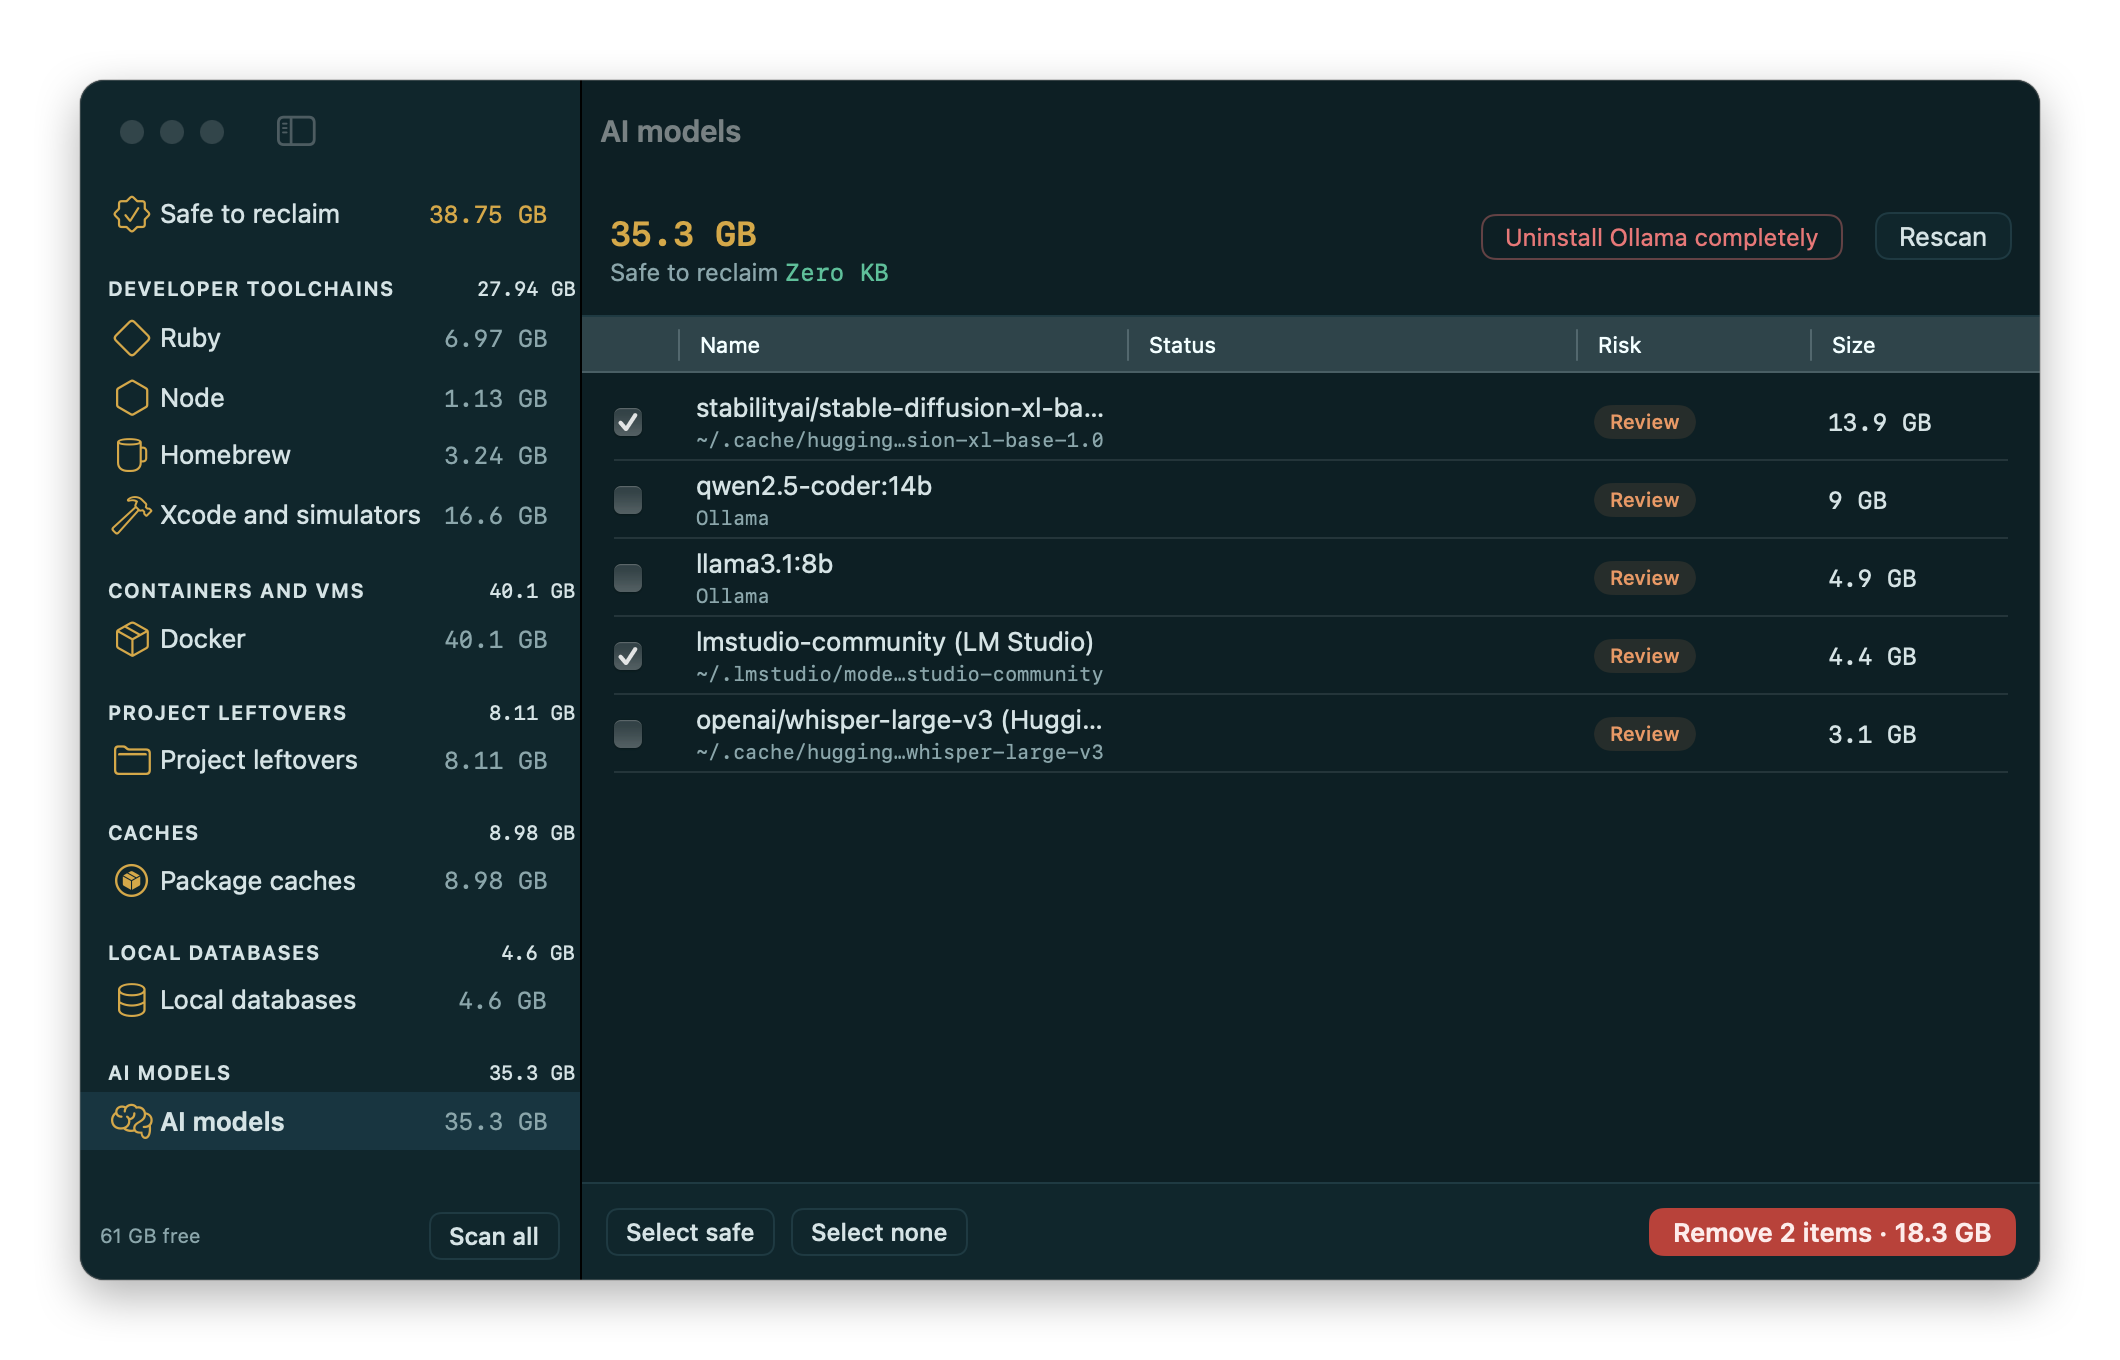
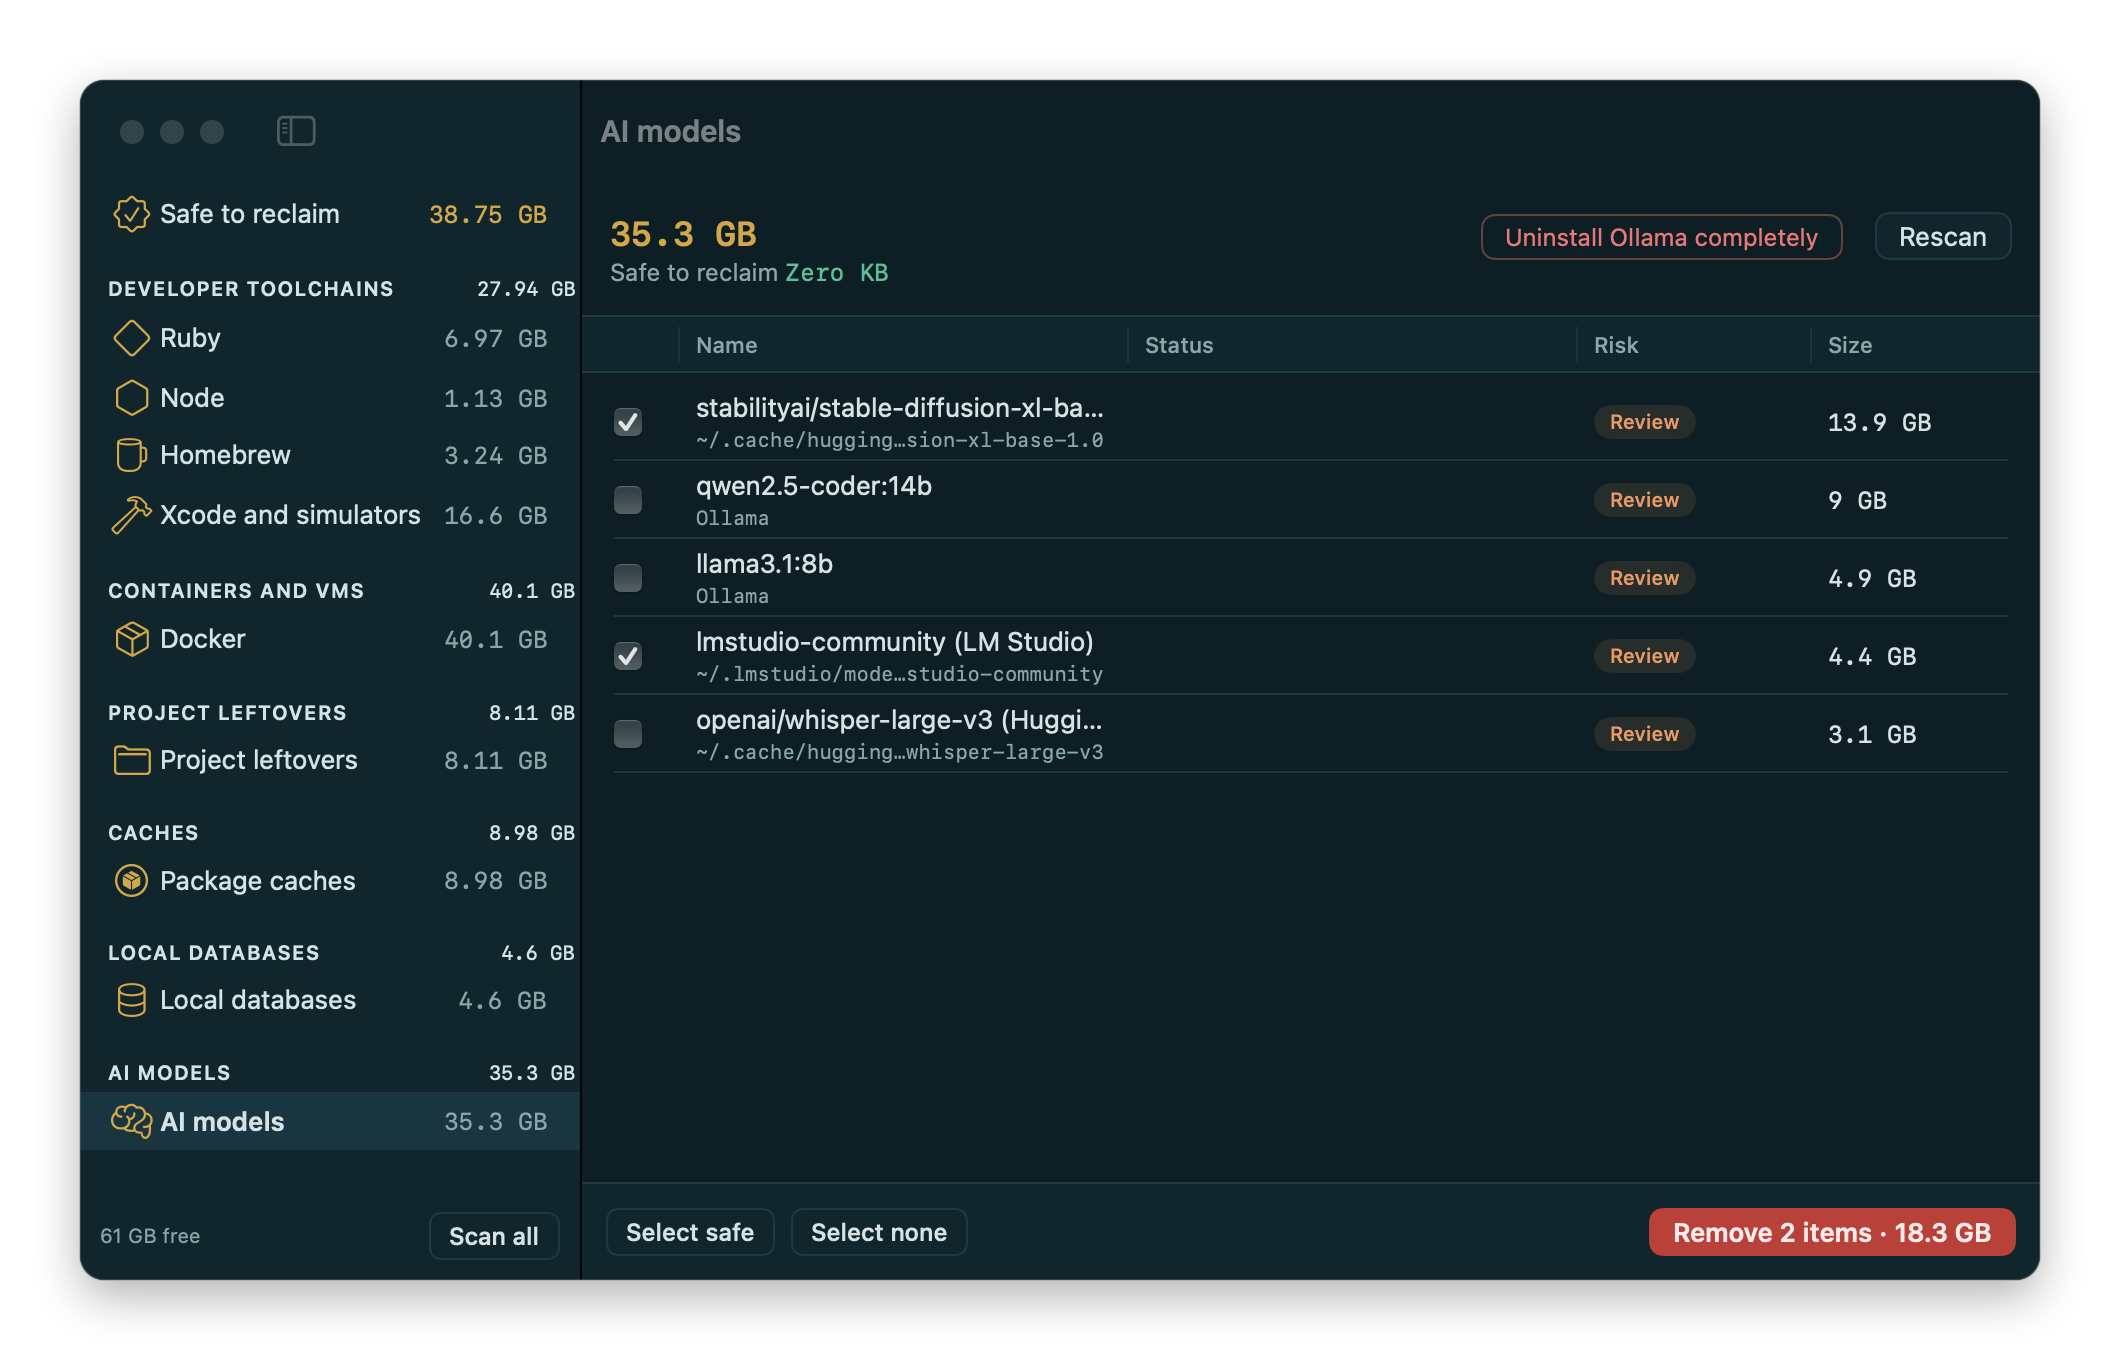
Theme table headers and Settings buttons
Replace the native NSTableHeaderView with a themed header view (bg-2 fill, line hairline, muted text, separators); Settings buttons use LineButtonStyle, Remove uses danger outline.

Claude-Session: https://claude.ai/code/session_01RaspoV6U3Bfch7QViyphcX

Changed region(s): [[0.2491, 0.2162, 0.9651, 0.2779]]

diff --git a/Sources/Ballast/Theme.swift b/Sources/Ballast/Theme.swift
@@ -167,16 +167,48 @@ struct TableHeaderSkin: NSViewRepresentable {
     private static func skin(in v: NSView) {
         if let table = v as? NSTableView {
             table.backgroundColor = .clear
-            if let header = table.headerView {
-                // Resolve the dynamic colour for this window's appearance, not whatever happens to be current.
-                var cg = NSColor(Theme.bg2).cgColor
-                header.effectiveAppearance.performAsCurrentDrawingAppearance { cg = NSColor(Theme.bg2).cgColor }
-                header.wantsLayer = true
-                header.layer?.backgroundColor = cg
-                header.superview?.wantsLayer = true
-                header.superview?.layer?.backgroundColor = cg
+            if let old = table.headerView, !(old is ThemedHeaderView) {
+                let h = ThemedHeaderView(frame: old.frame)
+                table.headerView = h
             }
         }
         for s in v.subviews { skin(in: s) }
+    }
+}
+
+/// Column-header strip drawn entirely from the theme: bg-2 fill, muted text, subtle separators, a `line` hairline below.
+/// Replaces the native NSTableHeaderView, whose own material overlay reads lighter and bluer than the teal.
+final class ThemedHeaderView: NSTableHeaderView {
+    override var isOpaque: Bool { false }
+
+    override func draw(_ dirtyRect: NSRect) {
+        guard let table = tableView else { return }
+        func resolve(_ c: Color) -> NSColor {
+            var out = NSColor(c)
+            effectiveAppearance.performAsCurrentDrawingAppearance { out = NSColor(cgColor: NSColor(c).cgColor) ?? out }
+            return out
+        }
+        resolve(Theme.bg2).setFill()
+        bounds.fill()
+        let para = NSMutableParagraphStyle()
+        para.lineBreakMode = .byTruncatingTail
+        let attrs: [NSAttributedString.Key: Any] = [
+            .font: NSFont.systemFont(ofSize: NSFont.smallSystemFontSize, weight: .medium),
+            .foregroundColor: resolve(Theme.muted),
+            .paragraphStyle: para,
+        ]
+        let line = resolve(Theme.line)
+        for i in 0..<table.numberOfColumns {
+            let r = headerRect(ofColumn: i)
+            let title = table.tableColumns[i].title as NSString
+            let size = title.size(withAttributes: attrs)
+            title.draw(in: NSRect(x: r.minX + 8, y: r.midY - size.height / 2, width: max(0, r.width - 16), height: size.height), withAttributes: attrs)
+            if i < table.numberOfColumns - 1 {
+                line.withAlphaComponent(0.7).setFill()
+                NSRect(x: r.maxX - 1, y: r.minY + 5, width: 1, height: r.height - 10).fill()
+            }
+        }
+        line.setFill()
+        NSRect(x: 0, y: bounds.maxY - 1, width: bounds.width, height: 1).fill()
     }
 }

diff --git a/Sources/Ballast/SettingsView.swift b/Sources/Ballast/SettingsView.swift
@@ -41,7 +41,9 @@ struct SettingsView: View {
                     Text(iphoneFolderLabel)
                     Spacer()
                     Button("Choose…") { if let url = chooseFolder() { prefs.iphoneFolder = url.path } }
+                        .buttonStyle(LineButtonStyle()).controlSize(.small)
                     Button("Reset") { prefs.iphoneFolder = "" }.disabled(prefs.iphoneFolder.isEmpty)
+                        .buttonStyle(LineButtonStyle()).controlSize(.small)
                 }
                 Text("Videos and photos moved off a connected iPhone are copied here, into a folder named after the iPhone.")
                     .font(.caption).foregroundStyle(.secondary)
@@ -109,13 +111,15 @@ struct RootsEditor: View {
                     Image(systemName: "folder")
                     Text(path.replacingOccurrences(of: NSHomeDirectory(), with: "~"))
                     Spacer()
-                    Button { roots.wrappedValue.removeAll { $0 == path } } label: { Image(systemName: "minus.circle") }
-                        .buttonStyle(.borderless)
+                    Button { roots.wrappedValue.removeAll { $0 == path } } label: { Text("Remove") }
+                        .buttonStyle(DangerButtonStyle(outline: true)).controlSize(.small)
+                        .accessibilityLabel("Remove \(path)")
                 }
             }
             Button("Add folder…") {
                 if let url = chooseFolder(), !roots.wrappedValue.contains(url.path) { roots.wrappedValue.append(url.path) }
             }
+            .buttonStyle(LineButtonStyle()).controlSize(.small)
         }
     }
 }
@@ -165,6 +169,7 @@ struct FirstRunSheet: View {
                         choice.ticked.insert(url.path)
                     }
                 }
+                .buttonStyle(LineButtonStyle())
                 Spacer()
                 Button("Continue") {
                     Task { await model.confirmRoots(choice.found.filter { choice.ticked.contains($0) }) }

diff --git a/CHANGELOG.md b/CHANGELOG.md
@@ -1,5 +1,9 @@
 # Changelog
 
+## Unreleased
+
+- **Table headers and the Settings window's buttons now match the rest of the app.**
+
 ## 0.5.3 — 2026-11-01
 
 - **The window's title bar now matches the rest of the window in light and dark.**
